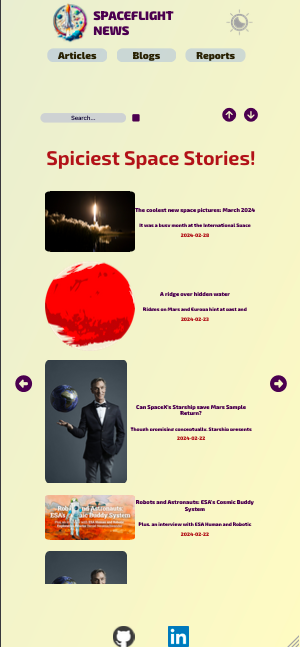
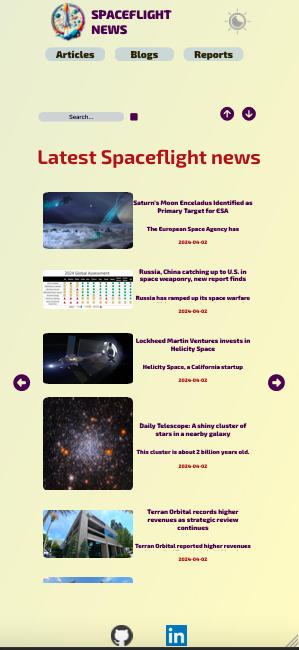
Refactor Card

diff --git a/src/components/MainPage.jsx b/src/components/MainPage.jsx
@@ -7,7 +7,9 @@ import Loading from './Loading'
 import leftArrowDummy from '../assets/images/leftArrowDummy.png'
 import rightArrowDummy from '..//assets/images/rightArrowDummy.png'
 
-function MainPage({apiUrl}) {
+const apiUrl = 'https://api.spaceflightnewsapi.net/v4'
+
+function MainPage({type}) {
     const SAMPLE_INPUT = 'Search...'
     const [data, setData] = useState([])
     const [searchTerm, setSearchTerm] = useState(SAMPLE_INPUT)
@@ -29,7 +31,7 @@ function MainPage({apiUrl}) {
 
     useEffect(() => {
         if(data.length === 0){
-            fetchData(apiUrl)
+            fetchData(apiUrl + '/' + type)
         }
     },[])
 
@@ -47,20 +49,20 @@ function MainPage({apiUrl}) {
 
     const handleSubmit = (event) => {
         event.preventDefault();
-        fetchData(apiUrl + "?search=" + searchTerm)
+        fetchData(apiUrl + '/' + type + "?search=" + searchTerm)
     }
 
     const sortByRecent = () => {
-        fetchData(apiUrl + (searchTerm !== SAMPLE_INPUT ? "?search=" + searchTerm : ''))
+        fetchData(apiUrl + '/' + type + (searchTerm !== SAMPLE_INPUT ? "?search=" + searchTerm : ''))
     }
 
     const sortByOlder = () => {
-        fetchData(apiUrl + '?ordering=published_at' + (searchTerm && searchTerm !== SAMPLE_INPUT ? "&search=" + searchTerm : ''))
+        fetchData(apiUrl + '/' + type + '?ordering=published_at' + (searchTerm && searchTerm !== SAMPLE_INPUT ? "&search=" + searchTerm : ''))
     }
 
     const handleSelectedData = (id) => {
         setLoading(true)
-        fetch(apiUrl + '/' + id)
+        fetch(`${apiUrl}/${type}/${id}`)
             .then(res => res.json())
             .then(data => {
                 setSelectedData(data)
@@ -127,7 +129,7 @@ function MainPage({apiUrl}) {
                 <div className="card-list">
                     {
                         data.results?.map((data) => (
-                                <Card key={data.id} data={data} toogleSelected={handleSelectedData} />
+                                <Card key={data.id} data={data} toggleSelected={handleSelectedData} />
                         ))    
                     }
                 </div>

diff --git a/src/App.jsx b/src/App.jsx
@@ -19,10 +19,10 @@ function App() {
         <div className={darkmode ? 'App darkmode' : 'App'}>
           <Navbar darkmode={darkmode} toggleDarkmode={handleDarkmode}/>
           <Routes>
-            <Route exact path='/' element={<MainPage key='news' apiUrl='https://api.spaceflightnewsapi.net/v4/articles'/> } errorElement={<ErrorPage />}/>
-            <Route path='/news' element={<MainPage key='news' apiUrl='https://api.spaceflightnewsapi.net/v4/articles'/>} />
-            <Route path='/blogs' element={<MainPage key='blogs' apiUrl='https://api.spaceflightnewsapi.net/v4/blogs'/>} />
-            <Route path='/reports' element={<MainPage key='reports' apiUrl='https://api.spaceflightnewsapi.net/v4/reports'/>} />
+            <Route exact path='/' element={<MainPage key='news' type='articles'/> } errorElement={<ErrorPage />}/>
+            <Route path='/news' element={<MainPage key='news' type='articles'/>} />
+            <Route path='/blogs' element={<MainPage key='blogs' type='blogs'/>} />
+            <Route path='/reports' element={<MainPage key='reports' type='reports'/>} />
             <Route path='/*' element={<ErrorPage error={'No such endpoint: ' + window.location}/>} />
           </Routes>
           <Footer />

diff --git a/src/components/Card.jsx b/src/components/Card.jsx
@@ -1,13 +1,13 @@
 import './Card.css'
 
-function Card(props){
+function Card({data, toggleSelected}){
     return(
-        <div className="card" onClick={() => props.toogleSelected(props.data.id)}>
-            <img className="card-image" src={props.data.image_url} alt="report"/>
+        <div className="card" onClick={() => toggleSelected(data.id)}>
+            <img className="card-image" src={data.image_url} alt="report"/>
             <div className='card-info'>
-                <h5 className='card-title'>{props.data.title}</h5>
-                <p className='card-summary'>{props.data.summary}</p>
-                <p className='card-release'>{props.data.published_at.slice(0,10)}</p>
+                <h5 className='card-title'>{data.title}</h5>
+                <p className='card-summary'>{data.summary}</p>
+                <p className='card-release'>{data.published_at.slice(0,10)}</p>
             </div>
         </div>
     )

diff --git a/src/components/MainPage.css b/src/components/MainPage.css
@@ -46,10 +46,8 @@
     font-size: larger;
     font-weight: 600;
     color: #161336;
-    margin-bottom: 30px;
     text-align: center;
     background-color: #CFD2D3;
-    margin-top: 30px;
 }
   
 .darkmode #input-box{
